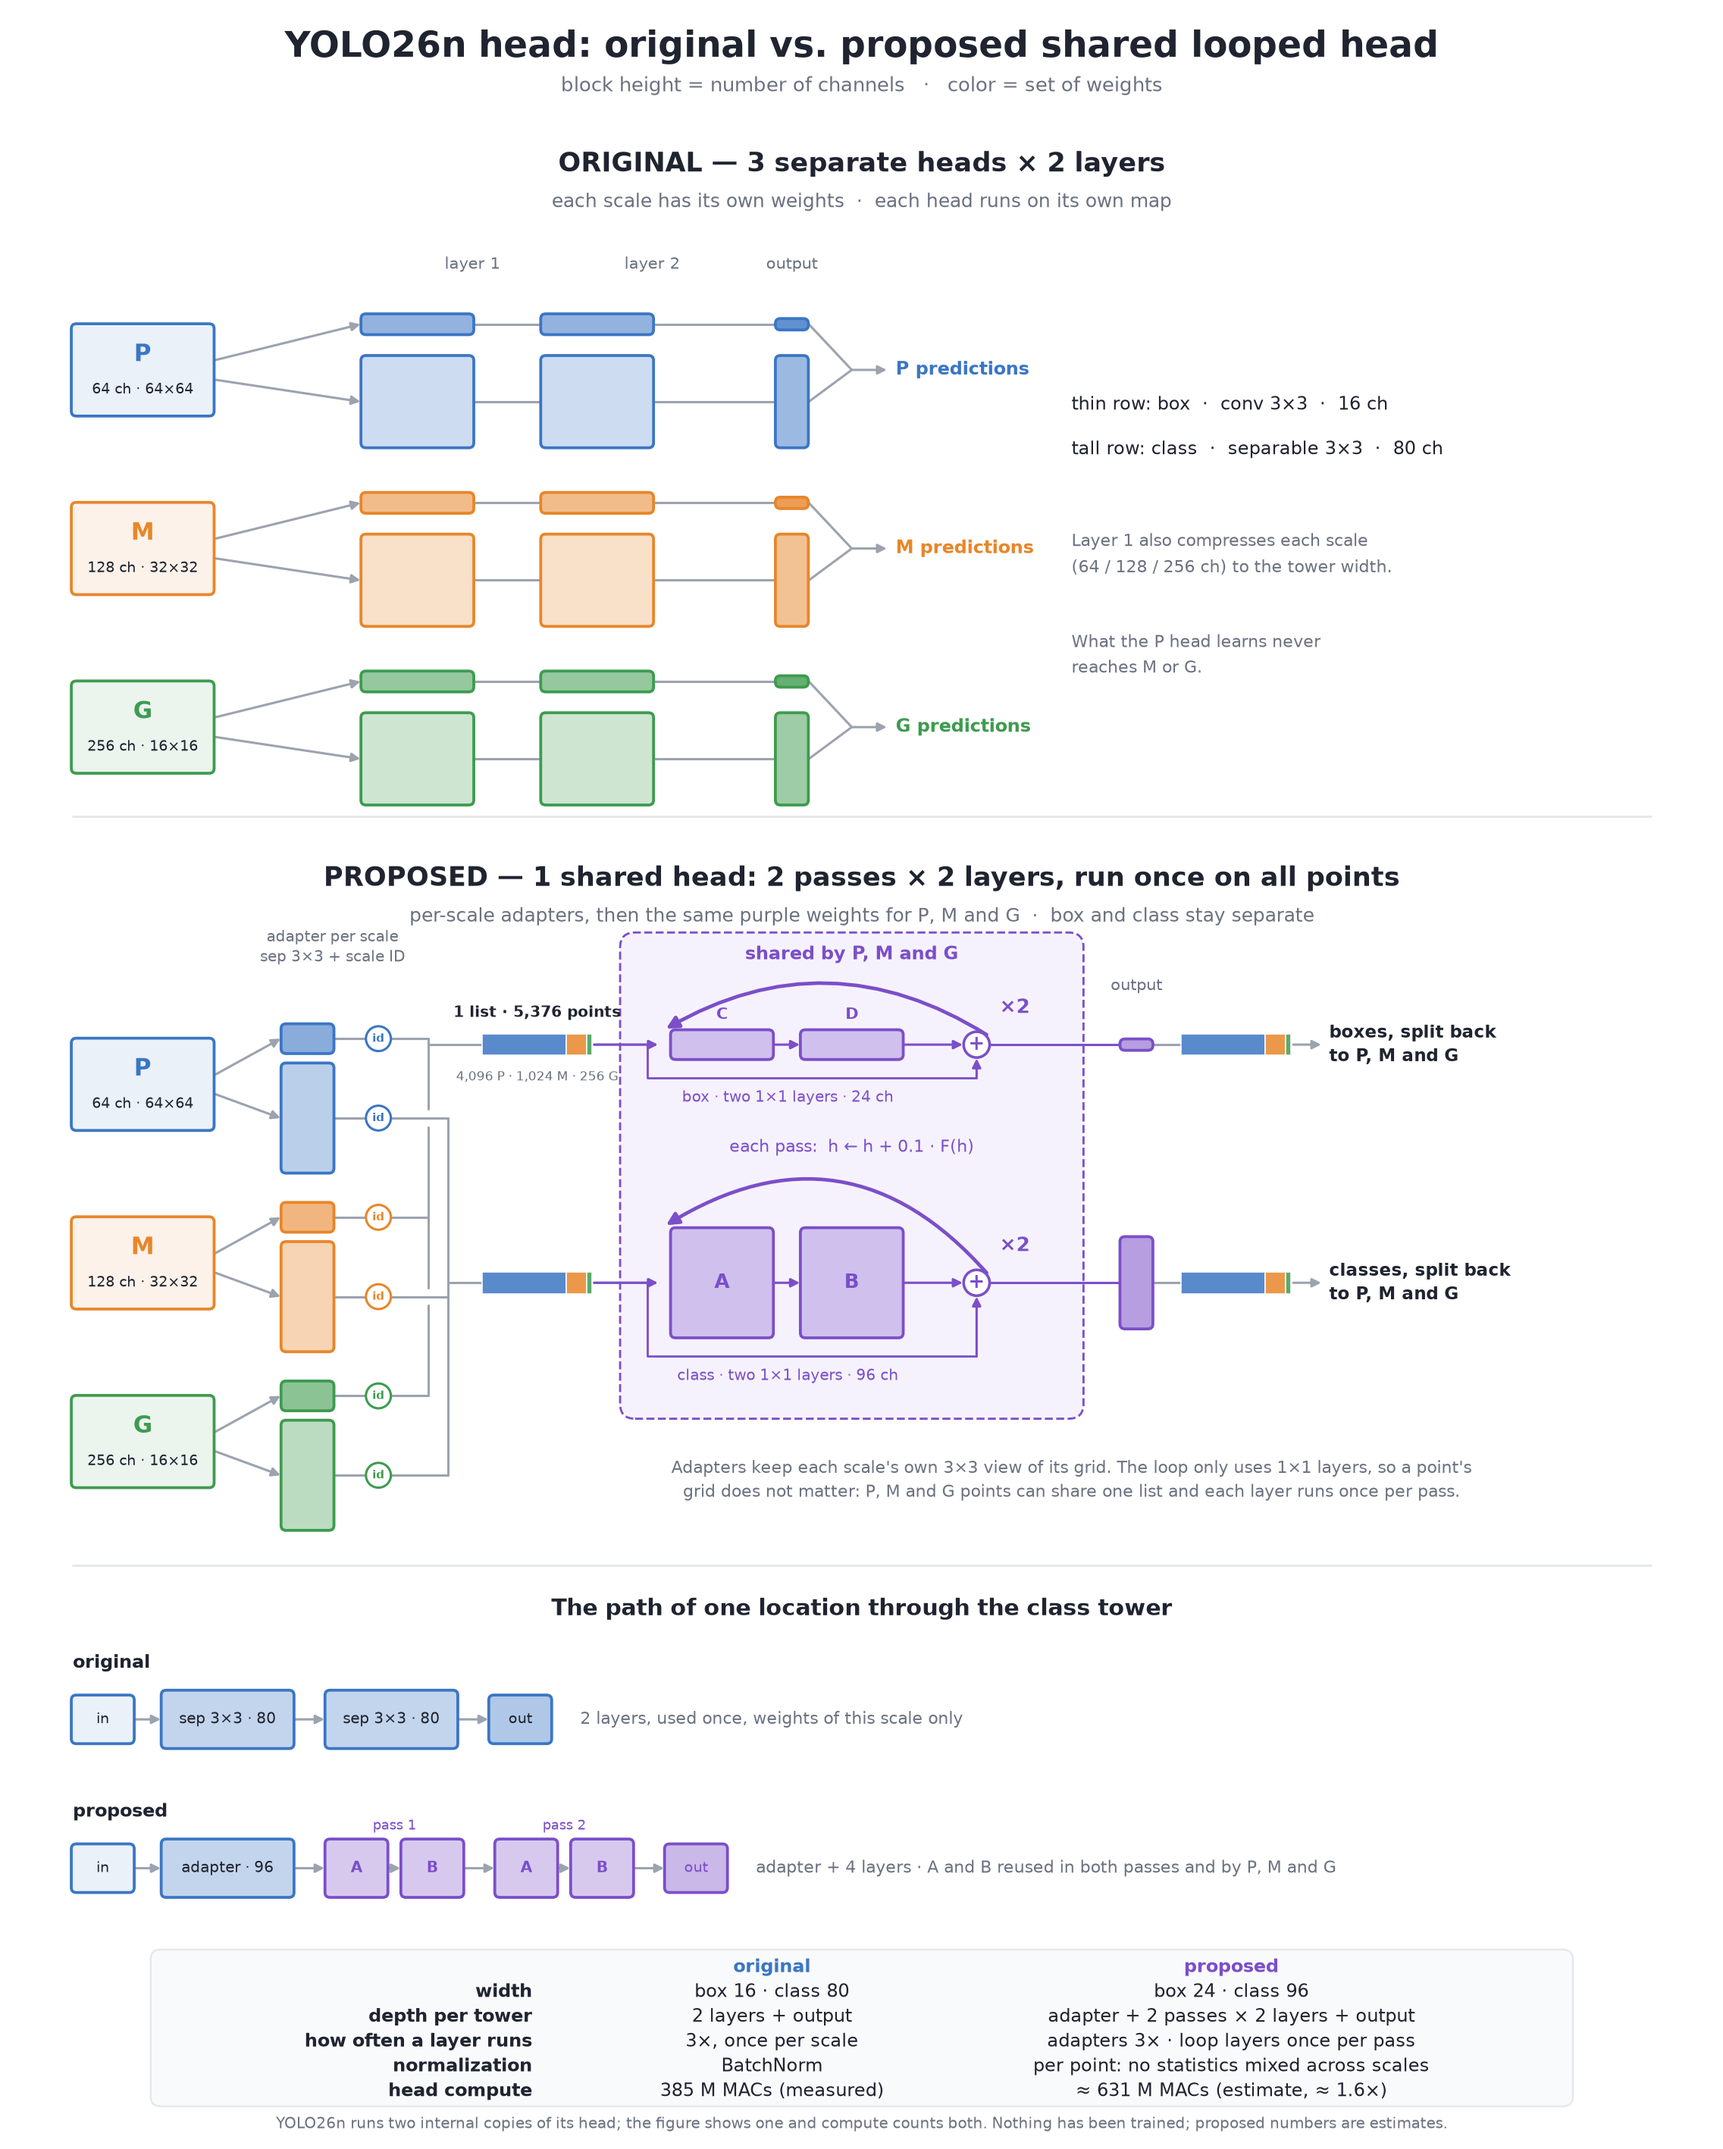
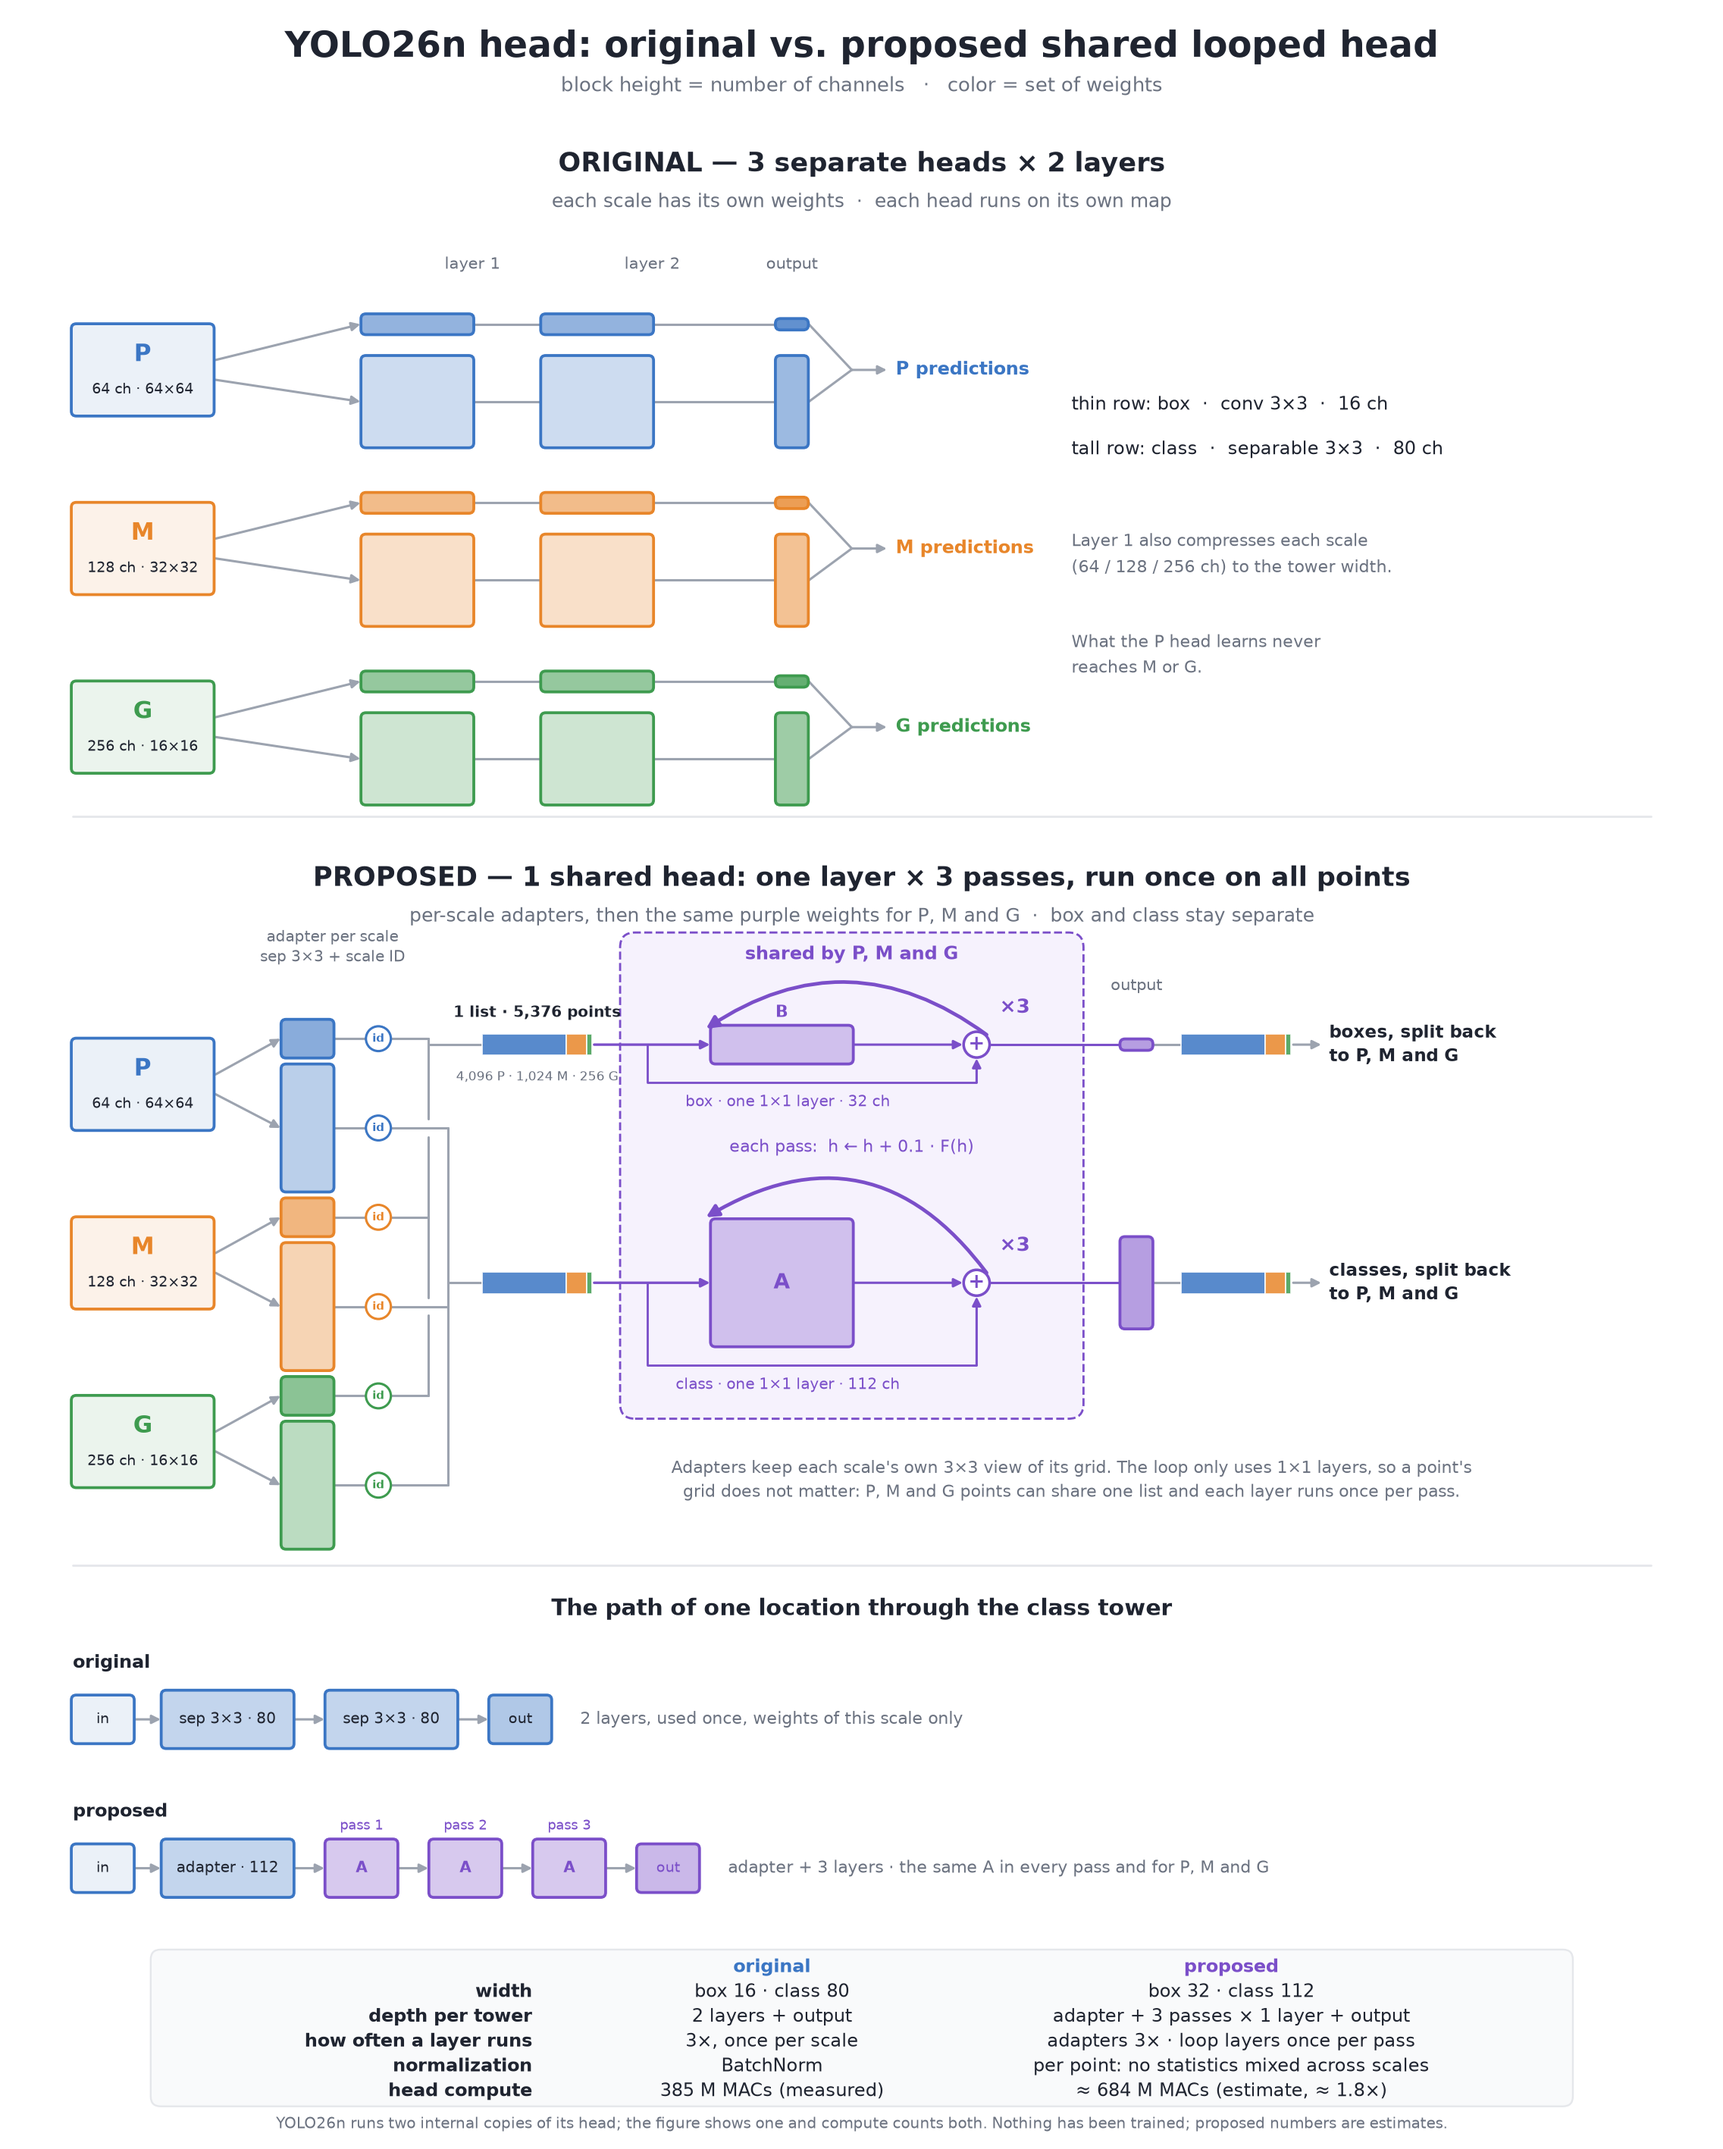
docs(readme): show the one-layer three-pass shared loop

diff --git a/scripts/draw_looped_head.py b/scripts/draw_looped_head.py
@@ -94,7 +94,7 @@ ax.text(106, 150, "What the P head learns never\nreaches M or G.", fontsize=9.5,
 seg(ax, [6, 164], [131, 131], RULE, 1.2)
 
 # ---------------------------------------------------------------- PROPOSED (bottom)
-section(ax, 124, "PROPOSED — 1 shared head: 2 passes × 2 layers, run once on all points",
+section(ax, 124, "PROPOSED — 1 shared head: one layer × 3 passes, run once on all points",
         "per-scale adapters, then the same purple weights for P, M and G  ·  box and class stay separate")
 YB, YC = 108, 84                             # shared box tower, shared class tower
 ax.text(32, 115.8, "adapter per scale\nsep 3×3 + scale ID", ha="center", va="bottom", fontsize=8.6,
@@ -104,11 +104,11 @@ BOX_BUS, CLS_BUS = 41.6, 43.6
 for s, y in (("P", 104), ("M", 86), ("G", 68)):
     c = SCALE[s]
     scale_input(ax, 6, s, y)
-    yb, yc = y + 4.6, y - 3.4
+    yb, yc = y + 4.6, y - 4.4
     box_ys.append(yb); cls_ys.append(yc)
     arrow(ax, (20.3, y + 1), (26.8, yb)); arrow(ax, (20.3, y - 1), (26.8, yc))
-    box(ax, 27, yb, 5, H(24), c, alpha=.6)
-    box(ax, 27, yc, 5, H(96), c, alpha=.35)
+    box(ax, 27, yb, 5, H(32), c, alpha=.6)
+    box(ax, 27, yc, 5, H(112), c, alpha=.35)
     for yy in (yb, yc):
         seg(ax, [32.2, 35.3], [yy, yy])
         ax.add_patch(Circle((36.6, yy), 1.25, fc="white", ec=c, lw=1.3, zorder=3))
@@ -123,7 +123,7 @@ seg(ax, [CLS_BUS, CLS_BUS], [min(cls_ys), max(cls_ys)])
 for bus, yt in ((BOX_BUS, YB), (CLS_BUS, YC)):
     seg(ax, [bus, 47], [yt, yt])
     point_list(ax, 47, yt, 11)
-    arrow(ax, (58.2, yt), (64.6, yt), SHARED, lw=1.4)
+    arrow(ax, (58.2, yt), (69.8, yt), SHARED, lw=1.4)
 ax.text(52.5, YB + 2.8, "1 list · 5,376 points", ha="center", fontsize=8.6, color=INK, fontweight="bold")
 ax.text(52.5, YB - 2.6, "4,096 P · 1,024 M · 256 G", ha="center", va="top", fontsize=7.3, color=GREY)
 
@@ -133,26 +133,24 @@ ax.text(84, 116.6, "shared by P, M and G", ha="center", fontsize=10, color=SHARE
 ax.text(84, 97.2, "each pass:  h ← h + 0.1 · F(h)", ha="center", fontsize=9.5, color=SHARED)
 
 
-def tower(yt, height, names, width_label, rad, lift):
-    x1, x2, cx = 66, 79, 96.5
-    for x, n in zip((x1, x2), names):
-        box(ax, x, yt, 10, height, SHARED, n if height > 4 else "", fs=11, alpha=.3, bold=True, tc=SHARED)
-        if height <= 4:
-            ax.text(x + 5, yt + 2.6, n, ha="center", fontsize=9, color=SHARED, fontweight="bold")
-    arrow(ax, (76.2, yt), (78.8, yt), SHARED)
-    arrow(ax, (89.2, yt), (95.1, yt), SHARED)
+def tower(yt, height, name, width_label, rad, lift):
+    x1, cx = 70, 96.5
+    box(ax, x1, yt, 14, height, SHARED, name if height > 4 else "", fs=12, alpha=.3, bold=True, tc=SHARED)
+    if height <= 4:
+        ax.text(x1 + 7, yt + 2.8, name, ha="center", fontsize=9.5, color=SHARED, fontweight="bold")
+    arrow(ax, (84.2, yt), (95.1, yt), SHARED)
     ax.add_patch(Circle((cx, yt), 1.3, fc="white", ec=SHARED, lw=1.5, zorder=3))
     ax.text(cx, yt, "+", ha="center", va="center", fontsize=11, color=SHARED, fontweight="bold", zorder=4)
     low = yt - height / 2 - 2
     seg(ax, [63.5, 63.5, cx], [yt, low, low], SHARED, 1.2, 1.6)
     arrow(ax, (cx, low), (cx, yt - 1.4), SHARED)
-    arrow(ax, (cx + 1, yt + 1), (65.4, yt + lift), SHARED, rad=rad, lw=2, ms=14)
-    ax.text(cx + 2.3, yt + 3.2, "×2", fontsize=11, color=SHARED, fontweight="bold")
+    arrow(ax, (cx + 1, yt + 1), (69.4, yt + lift), SHARED, rad=rad, lw=2, ms=14)
+    ax.text(cx + 2.3, yt + 3.2, "×3", fontsize=11, color=SHARED, fontweight="bold")
     ax.text(77.6, low - 2.4, width_label, ha="center", fontsize=8.6, color=SHARED)
 
 
-tower(YB, H(24), ("C", "D"), "box · two 1×1 layers · 24 ch", .3, 1.6)
-tower(YC, H(96), ("A", "B"), "class · two 1×1 layers · 96 ch", .42, 5.8)
+tower(YB, H(32), "B", "box · one 1×1 layer · 32 ch", .35, 1.6)
+tower(YC, H(112), "A", "class · one 1×1 layer · 112 ch", .45, 6.6)
 for yt, h, label in ((YB, H(4) + .4, "boxes"), (YC, H(80), "classes")):
     seg(ax, [97.8, 110.8], [yt, yt], SHARED)
     box(ax, 111, yt, 3, h, SHARED, alpha=.55)
@@ -182,7 +180,7 @@ def path(y, label, steps, note, out_color):
         tc = SHARED if color == SHARED else INK
         box(ax, x, y, w, H(80) * .62, color, text, fs=8.5, alpha=.3, tc=tc, bold=color == SHARED)
         if top:
-            ax.text(x + w + gap / 2 if top.startswith("pass") else x + w / 2, y + 3.9, top,
+            ax.text(x + w / 2, y + 3.9, top,
                     ha="center", fontsize=7.8, color=SHARED)
         x += w + gap
     arrow(ax, (end, y), (x - .2, y)); box(ax, x, y, 6, 4.6, out_color, "out", fs=8, alpha=.4,
@@ -192,17 +190,17 @@ def path(y, label, steps, note, out_color):
 
 path(40, "original", [("sep 3×3 · 80", SCALE["P"], 13, 3.4, ""), ("sep 3×3 · 80", SCALE["P"], 13, 3.4, "")],
      "2 layers, used once, weights of this scale only", SCALE["P"])
-path(25, "proposed", [("adapter · 96", SCALE["P"], 13, 3.4, ""), ("A", SHARED, 6, 1.6, "pass 1"),
-                      ("B", SHARED, 6, 3.4, ""), ("A", SHARED, 6, 1.6, "pass 2"), ("B", SHARED, 6, 3.4, "")],
-     "adapter + 4 layers · A and B reused in both passes and by P, M and G", SHARED)
+path(25, "proposed", [("adapter · 112", SCALE["P"], 13, 3.4, ""), ("A", SHARED, 7, 3.4, "pass 1"),
+                      ("A", SHARED, 7, 3.4, "pass 2"), ("A", SHARED, 7, 3.4, "pass 3")],
+     "adapter + 3 layers · the same A in every pass and for P, M and G", SHARED)
 
 # ---------------------------------------------------------------- NUMBERS
 rows_txt = [("", "original", "proposed"),
-            ("width", "box 16 · class 80", "box 24 · class 96"),
-            ("depth per tower", "2 layers + output", "adapter + 2 passes × 2 layers + output"),
+            ("width", "box 16 · class 80", "box 32 · class 112"),
+            ("depth per tower", "2 layers + output", "adapter + 3 passes × 1 layer + output"),
             ("how often a layer runs", "3×, once per scale", "adapters 3× · loop layers once per pass"),
             ("normalization", "BatchNorm", "per point: no statistics mixed across scales"),
-            ("head compute", "385 M MACs (measured)", "≈ 631 M MACs (estimate, ≈ 1.6×)")]
+            ("head compute", "385 M MACs (measured)", "≈ 684 M MACs (estimate, ≈ 1.8×)")]
 ax.add_patch(FancyBboxPatch((14, 1.2), 142, 15.4, boxstyle="round,pad=0.2,rounding_size=1",
                             fc="#F9FAFB", ec=RULE, lw=1, zorder=.5))
 for i, (a, b, c) in enumerate(rows_txt):

diff --git a/README.md b/README.md
@@ -1,7 +1,7 @@
 # One looped head for every scale
 
 <p align="center">
-  <img src="assets/looped-head.png" width="100%" alt="Top, original YOLO26n: three separate heads, one per scale, each with two layers. Bottom, proposed: a separable 3×3 adapter and scale ID per scale, then all 5,376 points in one list go through shared box and class loops of two 1×1 layers, run for two passes, and are split back to P, M and G.">
+  <img src="assets/looped-head.png" width="100%" alt="Top, original YOLO26n: three separate heads, one per scale, each with two layers. Bottom, proposed: a separable 3×3 adapter and scale ID per scale, then all 5,376 points in one list go through shared box and class loops of a single 1×1 layer, run for three passes, and are split back to P, M and G.">
 </p>
 
 **Question.** Can one looped detection head, shared by the P, M and G scales, replace YOLO26n's three separate heads? By reusing what it learns about objects at one size for the others, could it detect more accurately at the same or slightly higher compute?
@@ -11,8 +11,8 @@
 ## The idea
 
 - **Today**, each scale has its own head: P for small objects, M for medium, G for large. What the P head learns never reaches M or G.
-- **Proposed**, box and class keep separate towers, as in the original, but **each tower is shared by all three scales and looped**. A per-scale adapter looks at each location's 3×3 neighborhood, brings the scale to the tower's width and adds a learned scale ID. The loop then uses only 1×1 layers, so P, M and G points can go through it **as one list of 5,376 points**: **the same two layers run for two passes** with a residual update `h ← h + 0.1·F(h)`, and the outputs are split back to P, M and G.
-- **The goal is generalization across scales and higher accuracy, not fewer parameters.** The scale ID lets the shared loop treat a pattern differently when its scale matters. One list means one call per layer instead of one per scale; it does not reduce the arithmetic, because the list still holds every point. The head does about 1.6× the original's work; the full detector about 13% more. Latency and memory are measured, not assumed.
+- **Proposed**, box and class keep separate towers, as in the original, but **each tower is shared by all three scales and looped**. A per-scale adapter looks at each location's 3×3 neighborhood, brings the scale to the tower's width and adds a learned scale ID. The loop then uses only 1×1 layers, so P, M and G points can go through it **as one list of 5,376 points**: **the same single layer runs for three passes** with a residual update `h ← h + 0.1·F(h)`, and the outputs are split back to P, M and G.
+- **The goal is generalization across scales and higher accuracy, not fewer parameters.** The scale ID lets the shared loop treat a pattern differently when its scale matters. One list means one call per layer instead of one per scale; it does not reduce the arithmetic, because the list still holds every point. The head does about 1.8× the original's work; the full detector about 16% more. Latency and memory are measured, not assumed.
 
 ## Planned design
 
@@ -20,16 +20,16 @@
 |---|---|---|
 | Heads | 3, one per scale | 1, shared by P, M and G |
 | Towers | separate box and class | separate box and class |
-| Width | box 16 · class 80 | box 24 · class 96 |
-| Depth per tower | 2 layers + output | adapter + 2 passes × 2 layers + output |
+| Width | box 16 · class 80 | box 32 · class 112 |
+| Depth per tower | 2 layers + output | adapter + 3 passes × 1 layer + output |
 | How often a layer runs | 3×, once per scale | adapters 3× · loop layers once per pass, on all points |
 | Sets of weights | 3 per layer | adapters per scale · loop and output shared |
 | Normalization | BatchNorm | per point: no statistics mixed across scales |
-| Head compute | 385 M MACs (measured) | ≈631 M MACs (estimate) |
+| Head compute | 385 M MACs (measured) | ≈684 M MACs (estimate) |
 
 **Why box and class stay separate.** Locating an object and naming it can pull a shared layer in different directions. [YOLOX](https://arxiv.org/abs/2107.08430) found that separating them speeds up training and improves AP; in an end-to-end YOLO, like YOLO26n, a shared box-and-class head lost 4.2 AP versus 0.8 for separate ones. Merging them here would also blur what the experiment measures.
 
-**What the adapter does.** P, M and G arrive with 64, 128 and 256 channels, but a shared tower needs one input width. The adapter compresses each scale to that width, for example 256 → 96 channels for G. The original's first layer already performs the same compression. A separable 3×3 adapter looks at neighboring locations before compressing, as the original class tower does.
+**What the adapter does.** P, M and G arrive with 64, 128 and 256 channels, but a shared tower needs one input width. The adapter compresses each scale to that width, for example 256 → 112 channels for G. The original's first layer already performs the same compression. A separable 3×3 adapter looks at neighboring locations before compressing, as the original class tower does.
 
 ## Planned comparison
 
@@ -44,7 +44,7 @@
 
 All arms use the same frozen YOLO26n trunk and training recipe, five paired seeds, checkpoint selection on a development split, and final evaluation on COCO val2017. AP, latency and memory are reported for every arm.
 
-**Starting point, to confirm before training:** two passes, box 24 and class 96 channels.
+**Starting point, to confirm before training:** one shared layer, three passes, box 32 and class 112 channels. The alternative under consideration is two layers (A → B) for two passes at box 24 and class 96 channels, ≈631 M MACs.
 
 ## Repository
 
